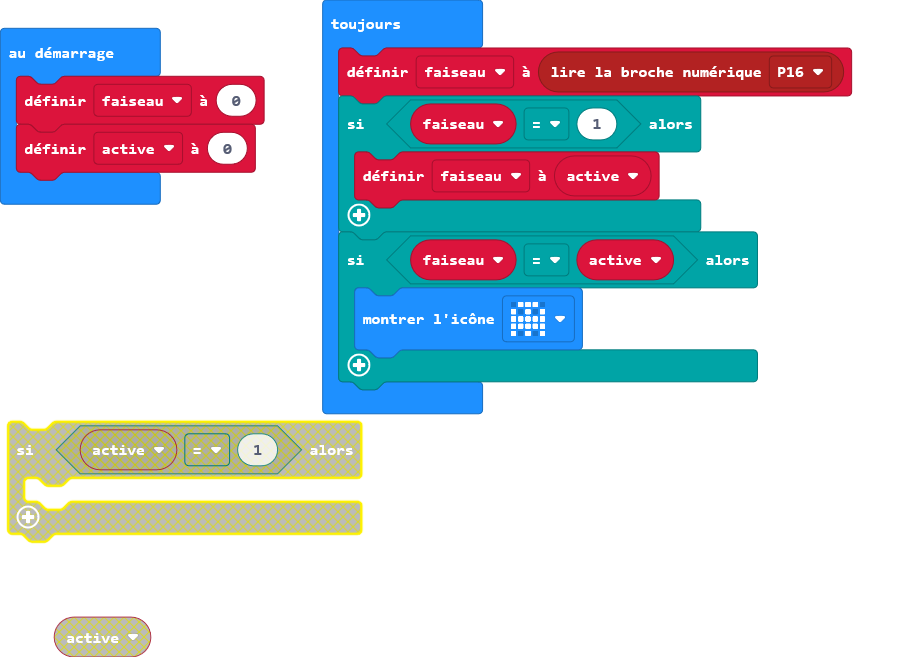
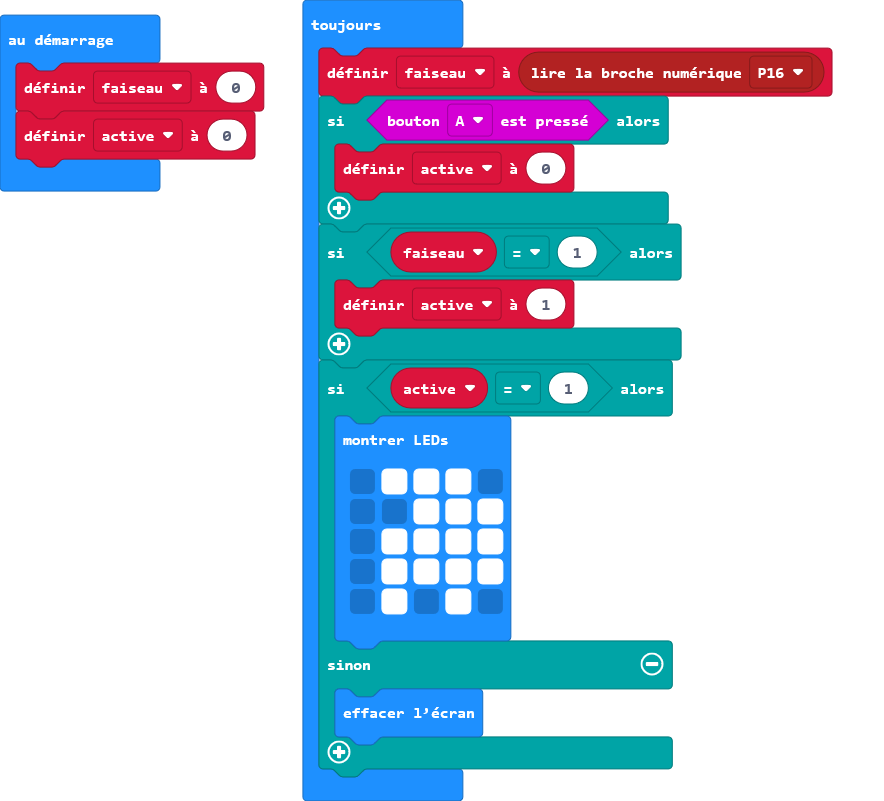
Mise à jour main.blocks, main.ts

diff --git a/main.ts b/main.ts
@@ -2,10 +2,21 @@ let faiseau = 0
 let active = 0
 basic.forever(function () {
     faiseau = pins.digitalReadPin(DigitalPin.P16)
-    if (faiseau == 1) {
-        faiseau = active
+    if (input.buttonIsPressed(Button.A)) {
+        active = 0
     }
-    if (faiseau == active) {
-        basic.showIcon(IconNames.Ghost)
+    if (faiseau == 1) {
+        active = 1
+    }
+    if (active == 1) {
+        basic.showLeds(`
+            . # # # .
+            . . # # #
+            . # # # #
+            . # # # #
+            . # . # .
+            `)
+    } else {
+        basic.clearScreen()
     }
 })
